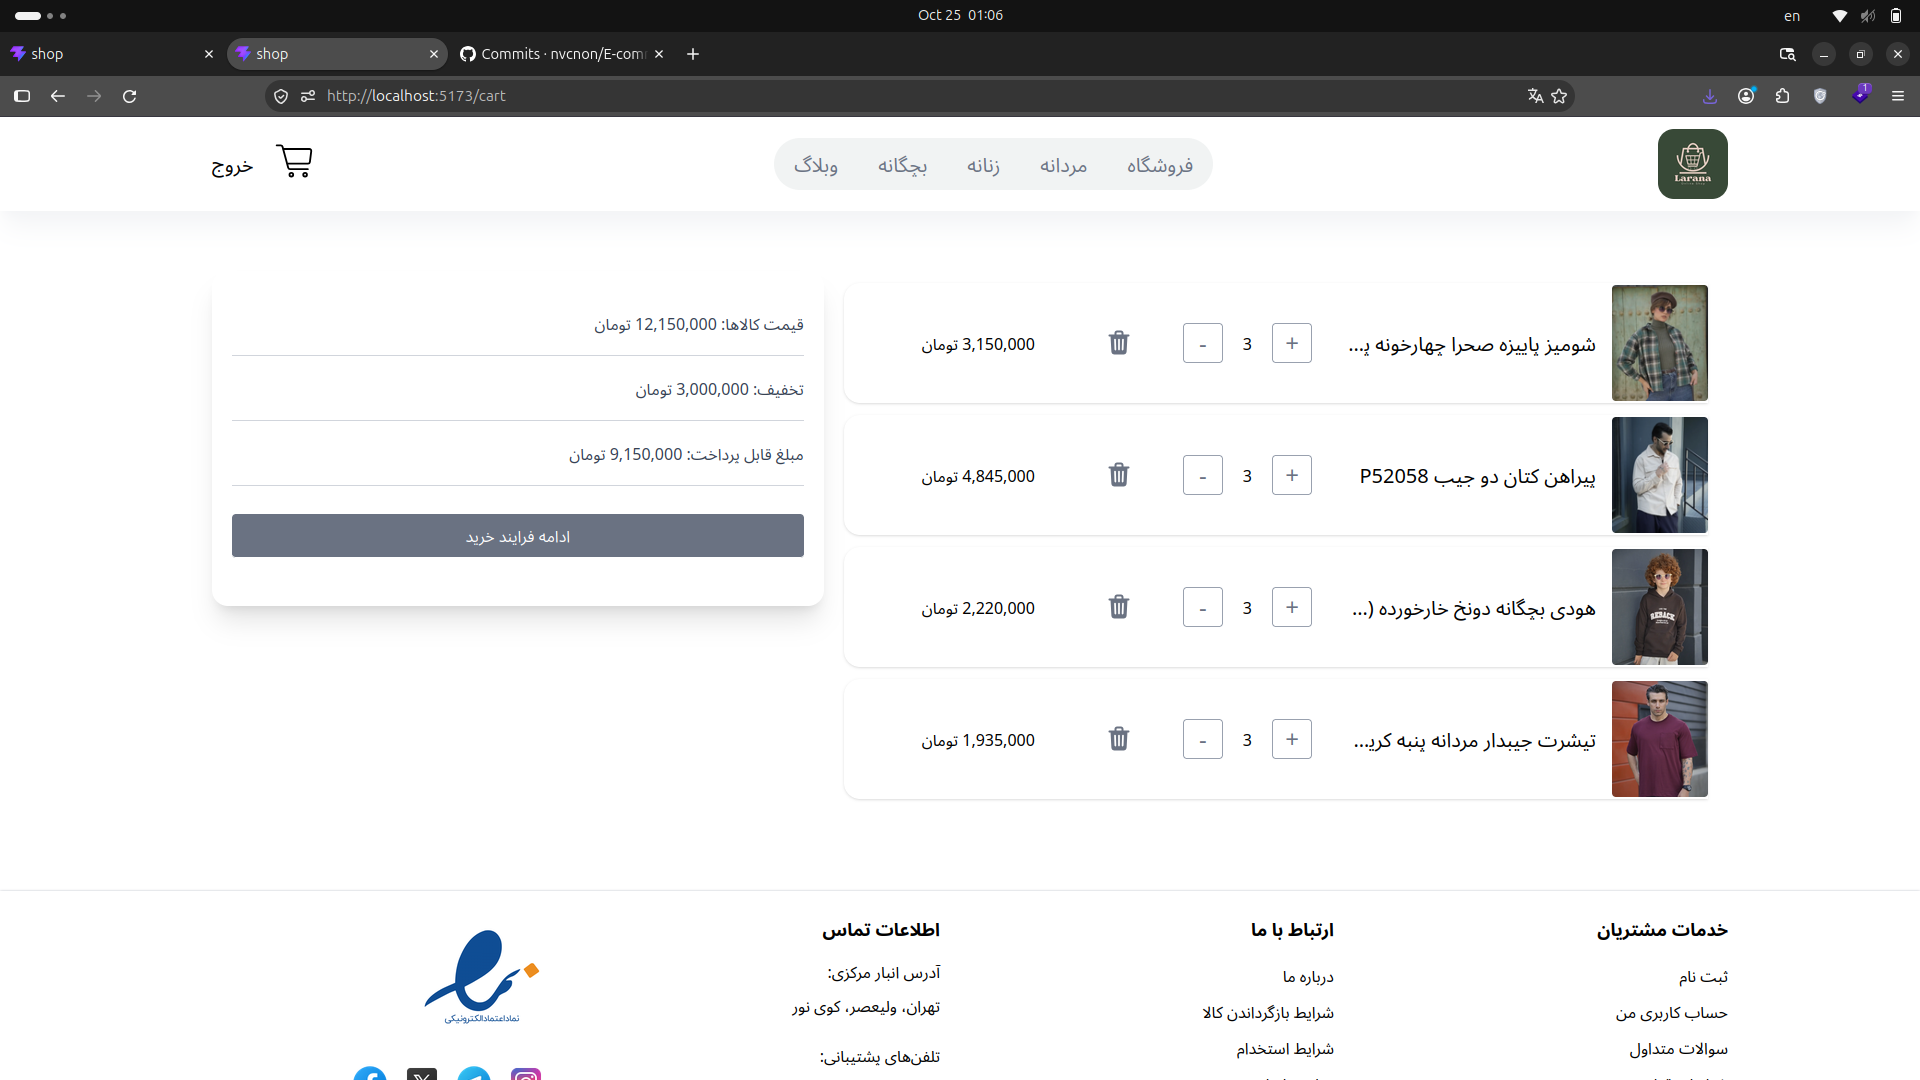
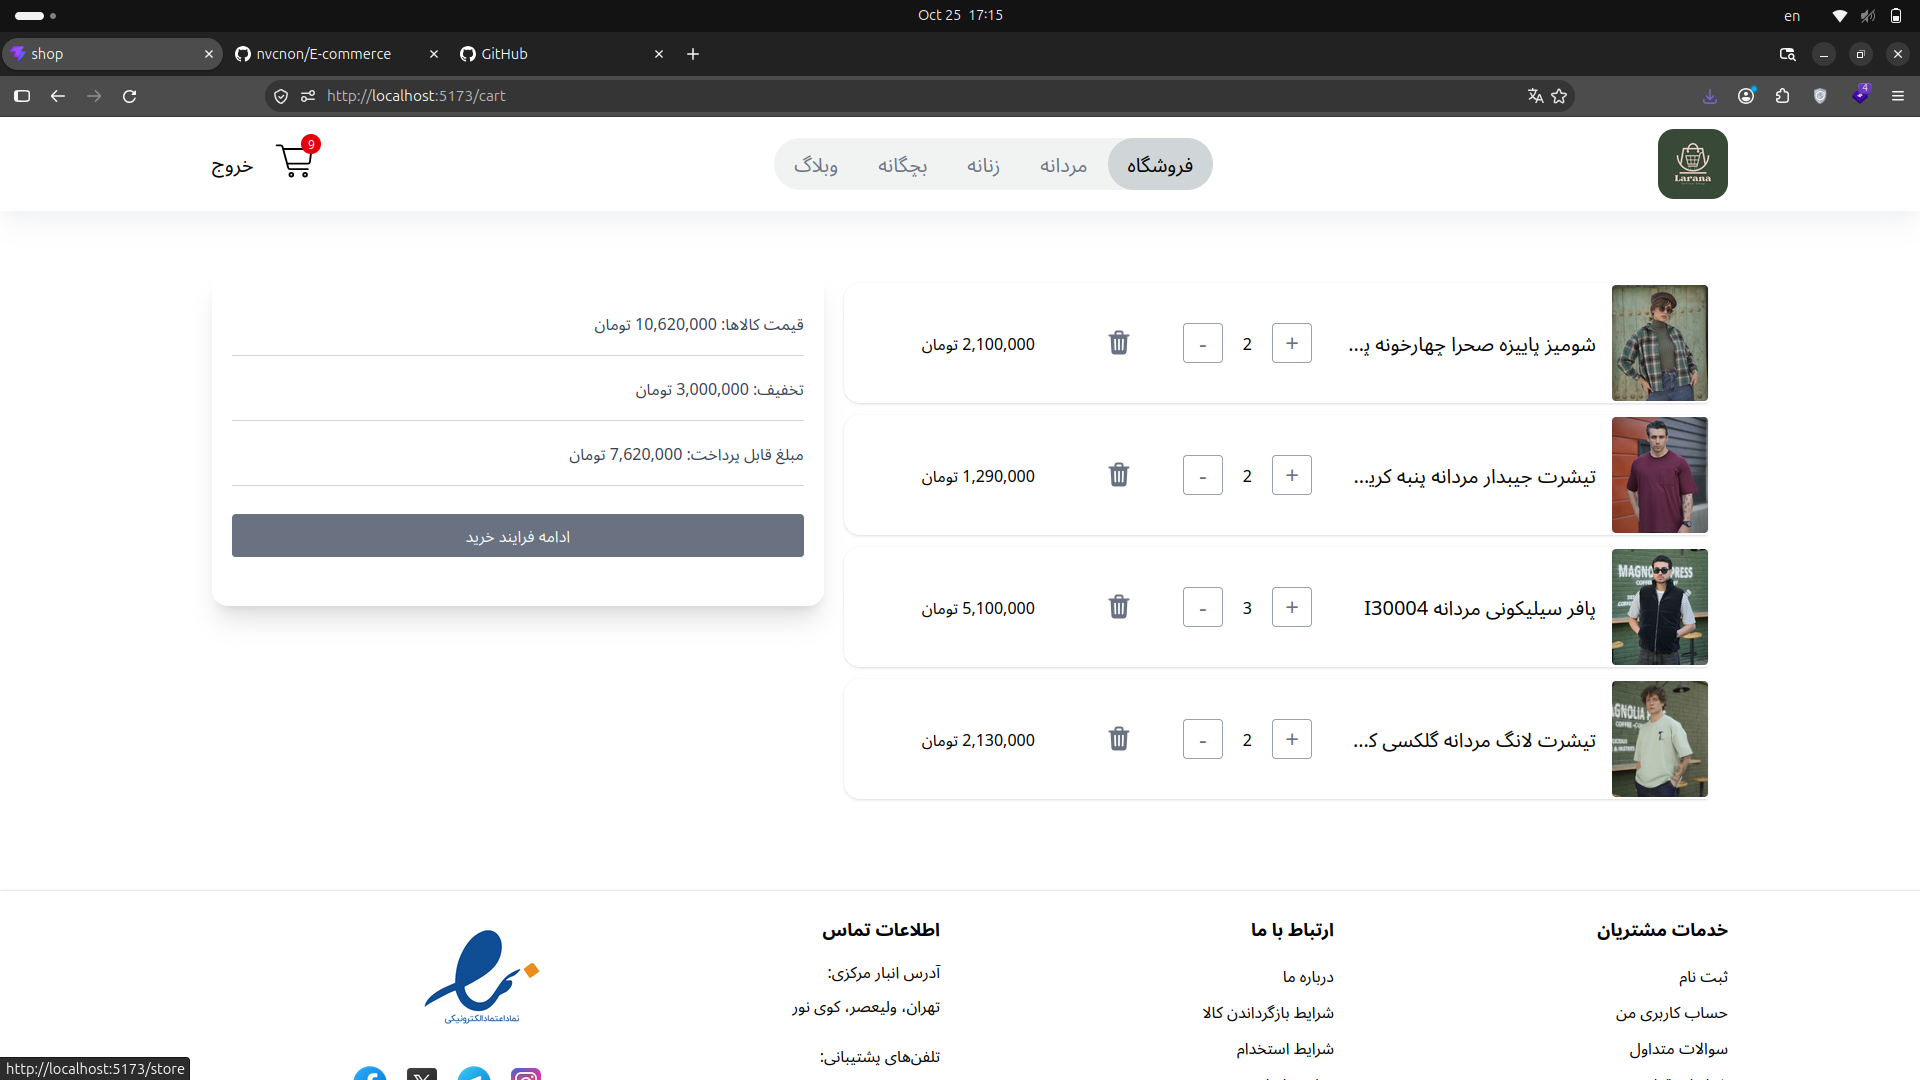
docs: update README

diff --git a/README.md b/README.md
@@ -37,7 +37,6 @@ This project demonstrates practical frontend development skills through reusable
 ## ✨ Features
 
 - Product listing and product details
-- Product search
 - Category filtering
 - URL-based search and filtering
 - Shopping cart management
@@ -48,7 +47,6 @@ This project demonstrates practical frontend development skills through reusable
 - Protected routes
 - Authentication state persistence
 - Cart persistence using Local Storage
-- Magazine / blog section
 - Responsive layouts
 - Reusable React components
 - Interactive Swiper sections
@@ -143,9 +141,9 @@ Users can:
 - View the total price
 - Retain cart data using Local Storage
 
-## 🔎 Search & Category Filtering
+## Category Filtering
 
-The Store page supports product search and category filtering.
+The Store page supports product category filtering.
 
 Filtering state is synchronized with the URL using React Router's `useSearchParams`.
 
